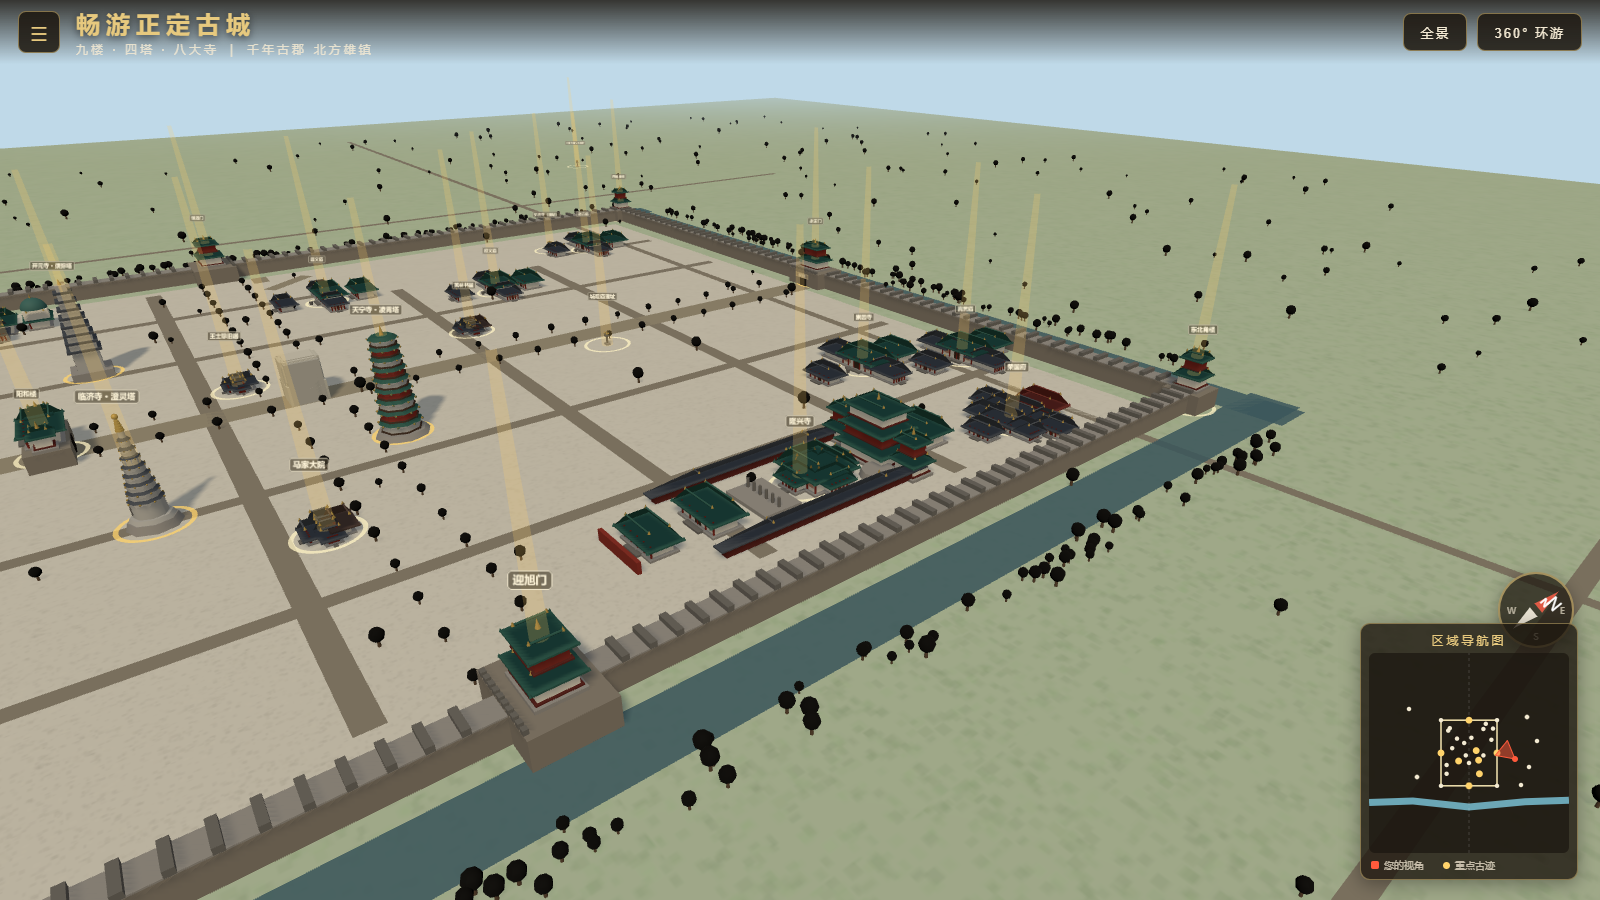
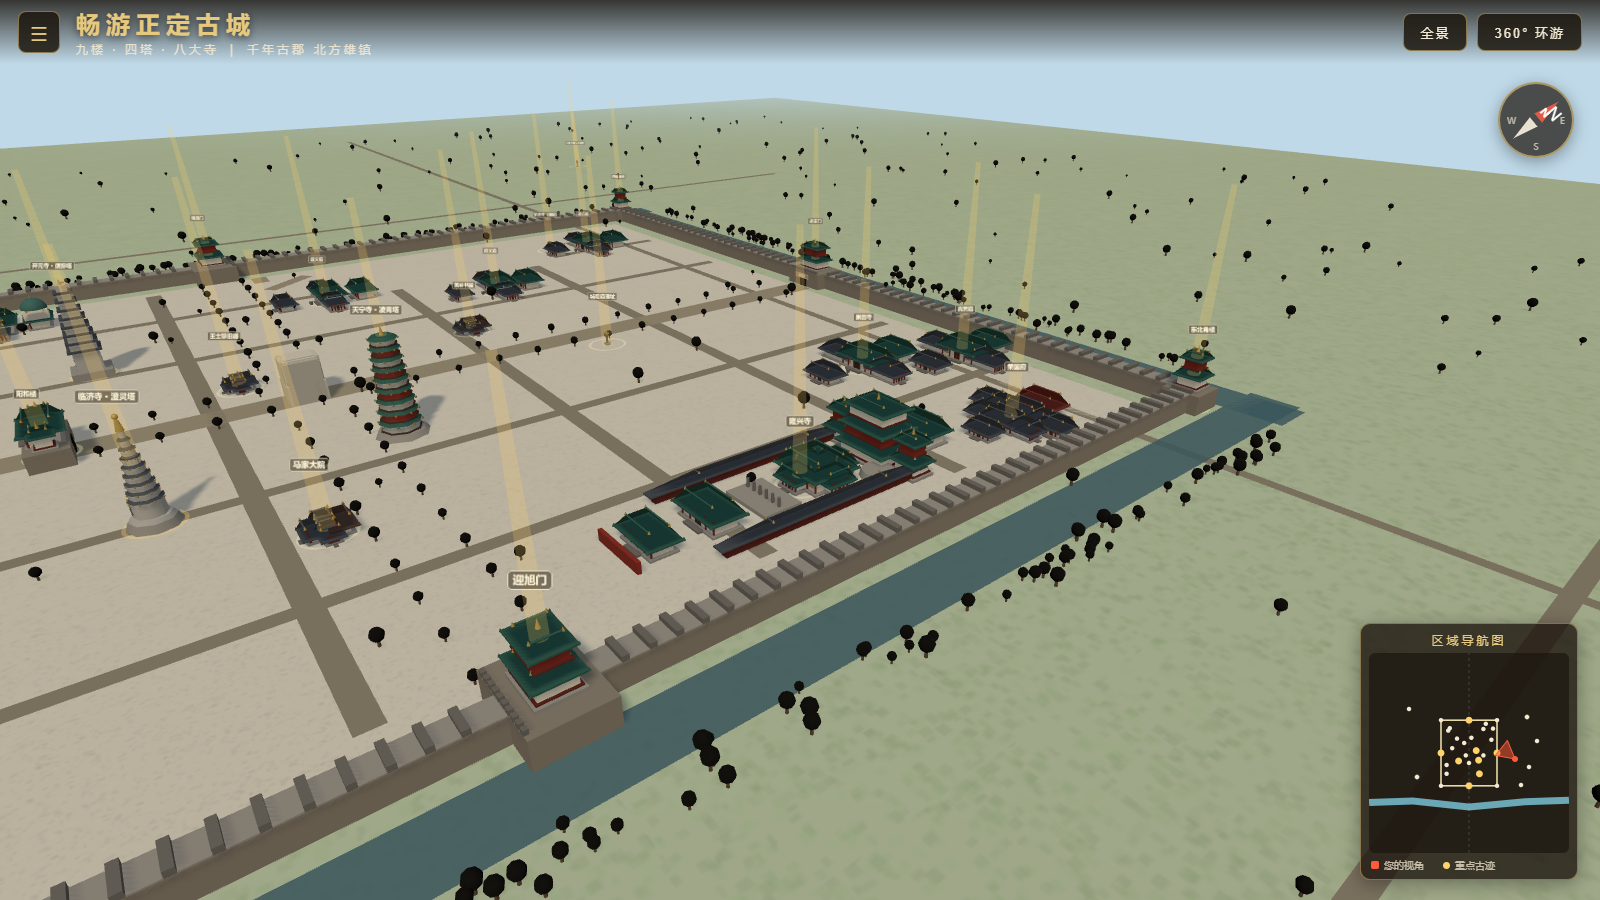
feat: 启动介绍页；修复指南针与缩略图重叠
- 启动先展示正定古城历史简介与操作提示，点击“开始游览”进入并开放相机
- 指南针移至右上角，与右下角区域导航图分离，移动端适配同步调整
- 新增 00-启动介绍页截图，shots.cjs 支持 skipintro 自动化模式
- 更新设计方案

diff --git a/css/style.css b/css/style.css
@@ -221,7 +221,7 @@ html, body {
 #compass {
   position: absolute;
   right: 26px;
-  bottom: 252px;
+  top: 82px;
   z-index: 20;
   width: 76px; height: 76px;
   pointer-events: none;
@@ -328,10 +328,108 @@ html, body {
 }
 #hint.fade { opacity: 0; }
 
+/* ---------- 启动介绍页 ---------- */
+#intro {
+  position: absolute;
+  inset: 0;
+  z-index: 100;
+  display: flex;
+  align-items: center;
+  justify-content: center;
+  background: radial-gradient(ellipse at center, rgba(18,13,7,0.55), rgba(10,7,4,0.86));
+  backdrop-filter: blur(3px);
+  transition: opacity .6s ease, visibility .6s;
+}
+#intro.hide {
+  opacity: 0;
+  visibility: hidden;
+  pointer-events: none;
+}
+.intro-card {
+  width: 620px;
+  max-width: calc(100vw - 40px);
+  text-align: center;
+  padding: 46px 56px 40px;
+  background: linear-gradient(180deg, rgba(34,25,14,0.92), rgba(22,16,9,0.94));
+  border: 1px solid rgba(231,201,126,0.55);
+  border-radius: 14px;
+  box-shadow: 0 18px 70px rgba(0,0,0,0.6), inset 0 0 60px rgba(231,201,126,0.06);
+  position: relative;
+}
+.intro-card::before, .intro-card::after {
+  content: "";
+  position: absolute;
+  width: 44px; height: 44px;
+  border: 2px solid var(--gold);
+  opacity: 0.7;
+}
+.intro-card::before { top: 10px; left: 10px; border-right: none; border-bottom: none; }
+.intro-card::after { bottom: 10px; right: 10px; border-left: none; border-top: none; }
+.intro-seal {
+  width: 64px; height: 64px;
+  margin: 0 auto 14px;
+  border-radius: 10px;
+  background: linear-gradient(145deg, #9c3528, #6e231a);
+  border: 2px solid var(--gold);
+  color: var(--gold);
+  font-size: 26px;
+  font-weight: 700;
+  letter-spacing: 2px;
+  display: flex;
+  align-items: center;
+  justify-content: center;
+  box-shadow: 0 4px 16px rgba(0,0,0,0.4);
+}
+.intro-title {
+  font-size: 40px;
+  letter-spacing: 12px;
+  text-indent: 12px;
+  color: var(--gold);
+  text-shadow: 0 3px 14px rgba(0,0,0,0.7);
+}
+.intro-sub {
+  margin-top: 8px;
+  font-size: 14px;
+  letter-spacing: 4px;
+  color: rgba(244,234,212,0.9);
+}
+.intro-body {
+  margin: 26px 0 24px;
+  text-align: left;
+  color: rgba(244,234,212,0.88);
+  font-size: 14px;
+  line-height: 2;
+}
+.intro-body p { margin-bottom: 10px; text-indent: 2em; }
+.intro-tips {
+  text-align: center !important;
+  text-indent: 0 !important;
+  margin-top: 16px !important;
+  font-size: 12.5px !important;
+  letter-spacing: 2px;
+  color: var(--gold) !important;
+  opacity: 0.9;
+}
+#intro-start {
+  width: 240px;
+  height: 52px;
+  border-radius: 10px;
+  border: 1px solid var(--gold);
+  background: linear-gradient(180deg, #a83d2e, #7a281d);
+  color: #fff;
+  font-size: 18px;
+  letter-spacing: 8px;
+  text-indent: 8px;
+  cursor: pointer;
+  box-shadow: 0 6px 22px rgba(140,47,36,0.5);
+  transition: transform .15s, filter .15s;
+}
+#intro-start:hover { filter: brightness(1.15); transform: translateY(-2px); }
+
 @media (max-width: 720px) {
   .title-block p { display: none; }
   .title-block h1 { font-size: 18px; letter-spacing: 3px; }
   #poi-panel { width: calc(100vw - 40px); }
   #minimap-wrap { transform: scale(0.85); transform-origin: right bottom; }
-  #compass { transform: scale(0.9); transform-origin: right bottom; bottom: 210px; }
+  #compass { transform: scale(0.9); transform-origin: right top; top: 70px; }
 }

diff --git a/dist/app.js b/dist/app.js
@@ -33983,6 +33983,7 @@
   document.getElementById("app").appendChild(renderer.domElement);
   var controls = new OrbitControls(camera, renderer.domElement);
   controls.target.set(0, 40, 0);
+  controls.enabled = false;
   controls.enableDamping = true;
   controls.dampingFactor = 0.06;
   controls.minDistance = 60;
@@ -34273,9 +34274,19 @@
   if (new URLSearchParams(location.search).has("debug")) {
     window.__zd = { camera, controls, THREE: three_module_exports, POIS, SX: SX2, flyToPoi, showPanel };
   }
-  setTimeout(() => {
-    document.getElementById("hint").classList.add("fade");
-  }, 6e3);
+  var intro = document.getElementById("intro");
+  document.getElementById("intro-start").addEventListener("click", () => {
+    intro.classList.add("hide");
+    controls.enabled = true;
+    setTimeout(() => {
+      document.getElementById("hint").classList.add("fade");
+    }, 8e3);
+  });
+  if (new URLSearchParams(location.search).has("skipintro")) {
+    intro.classList.add("hide");
+    controls.enabled = true;
+    setTimeout(() => document.getElementById("hint").classList.add("fade"), 6e3);
+  }
 })();
 /*! Bundled license information:
 

diff --git a/index.html b/index.html
@@ -11,6 +11,21 @@
 <body>
   <div id="app"></div>
 
+  <!-- 启动介绍页 -->
+  <div id="intro">
+    <div class="intro-card">
+      <div class="intro-seal">正定</div>
+      <h1 class="intro-title">畅游正定古城</h1>
+      <p class="intro-sub">九楼 · 四塔 · 八大寺 ｜ 千年古郡 · 北方雄镇</p>
+      <div class="intro-body">
+        <p>正定，古称常山、真定，地处冀中平原、滹沱河畔，与保定、北京并称"北方三雄镇"，是国家历史文化名城。</p>
+        <p>这里有"三关雄镇"长乐门拱卫的明代城垣，有梁思成惊叹的隆兴寺摩尼殿与大悲阁，有华塔、须弥塔、澄灵塔、凌霄塔四塔并峙，亦有荣国府、赵云庙、文庙群祠星列——自仰韶龙山文化起，三千余年文脉绵延不绝。</p>
+        <p class="intro-tips">左键拖拽 360° 旋转 ｜ 滚轮缩放 ｜ 点击发光景点飞临观景</p>
+      </div>
+      <button id="intro-start">开 始 游 览</button>
+    </div>
+  </div>
+
   <!-- 顶部标题栏 -->
   <header id="topbar">
     <button id="menu-toggle" title="景点目录">☰</button>

diff --git a/js/main.js b/js/main.js
@@ -22,6 +22,7 @@ document.getElementById('app').appendChild(renderer.domElement);
 
 const controls = new OrbitControls(camera, renderer.domElement);
 controls.target.set(0, 40, 0);
+controls.enabled = false;
 controls.enableDamping = true;
 controls.dampingFactor = 0.06;
 controls.minDistance = 60;
@@ -344,7 +345,19 @@ if (new URLSearchParams(location.search).has('debug')) {
   window.__zd = { camera, controls, THREE, POIS, SX, flyToPoi, showPanel };
 }
 
-// 初始提示
-setTimeout(() => {
-  document.getElementById('hint').classList.add('fade');
-}, 6000);
+// 启动介绍页
+const intro = document.getElementById('intro');
+document.getElementById('intro-start').addEventListener('click', () => {
+  intro.classList.add('hide');
+  controls.enabled = true;
+  setTimeout(() => {
+    document.getElementById('hint').classList.add('fade');
+  }, 8000);
+});
+
+// 自动化/截图模式：?skipintro=1 直接进入
+if (new URLSearchParams(location.search).has('skipintro')) {
+  intro.classList.add('hide');
+  controls.enabled = true;
+  setTimeout(() => document.getElementById('hint').classList.add('fade'), 6000);
+}

diff --git a/docs/设计方案.md b/docs/设计方案.md
@@ -9,8 +9,9 @@
 1. **方位准确**：以长乐门（南城门）为正南方基准，所有建筑按真实相对方位落位；
 2. **内容丰富**：古城内外均有大量建筑填充，还原城防、街巷、寺院、民居、河流环境；
 3. **交互完备**：滚轮缩放、360° 全景环绕、点击景点自动飞行跳转、每个景点配简介；
-4. **导航辅助**：提供指南针与区域导航缩略图（小地图），随时可知自身方位；
-5. **零门槛运行**：既可用本地服务器访问，也可双击 `index.html` 直接打开。
+4. **启动介绍**：进入前展示正定古城历史简介与操作提示，点击"开始游览"进入（此时才开放相机控制）；
+5. **导航辅助**：提供指南针（右上角）与区域导航缩略图（右下角），随时可知自身方位；
+6. **零门槛运行**：既可用本地服务器访问，也可双击 `index.html` 直接打开。
 
 ## 二、技术选型
 
@@ -119,6 +120,7 @@ scene.position = (SX(poi.x), poi.z)
 
 ## 七、UI 设计
 
+- **启动介绍页**：印章、标题、正定历史简介与操作提示，"开始游览"按钮淡出进入（相机控制在此之前禁用；`?skipintro=1` 可跳过，用于自动化截图）；
 - **顶部栏**：菜单按钮、"畅游正定古城"标题、"九楼·四塔·八大寺"副题、全景/环游按钮；
 - **左侧目录**：按城楼/角楼/楼阁/四塔/寺院/府邸/遗址/城外分类，彩色圆点区分；
 - **指南针**：右上区域，红北白南双向针，N/E/S/W 刻度，随相机方位实时旋转；

diff --git a/docs/第一阶段效果图/README.md b/docs/第一阶段效果图/README.md
@@ -2,6 +2,12 @@
 
 以下截图为第一阶段成品实际运行画面（1600×900，file:// 双击运行），采集脚本见仓库根目录 `shots.cjs`。
 
+## 〇、启动页
+
+![启动介绍页](00-启动介绍页.png)
+
+启动时展示正定古城简介（常山真定、北方三雄镇、九楼四塔八大寺）与操作提示，点击"开始游览"进入 3D 地图。
+
 ## 一、全城格局
 
 | | |

diff --git a/docs/创作流程.md b/docs/创作流程.md
@@ -6,9 +6,7 @@
 
 结束时间:2026-09-17 10:30:00
 
-效果:
-
-
+效果:docs/第一阶段效果图
 
 ## 第二阶段：优化
 
